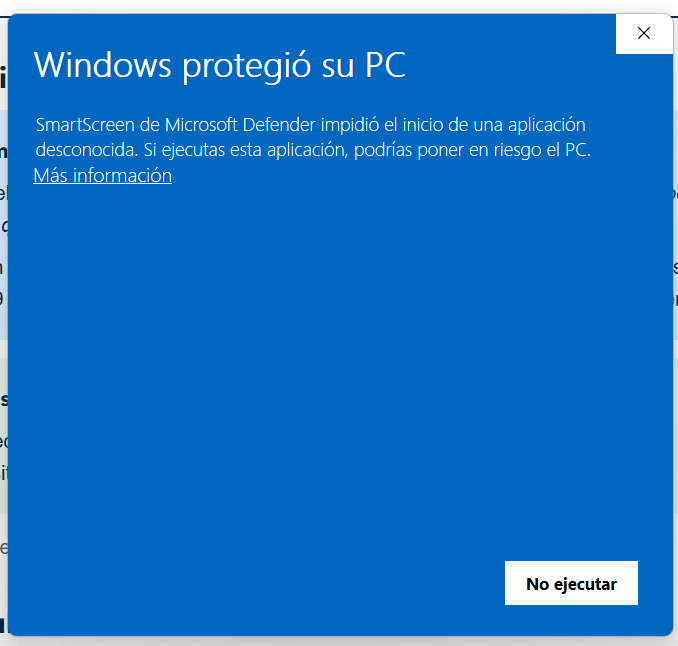
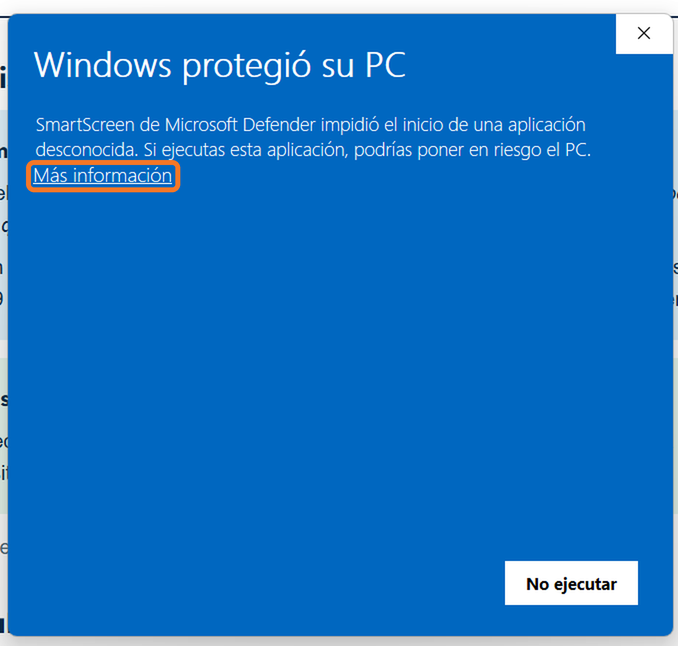
Guía: recuadros naranjas en las capturas clave de Windows y Mac
Claude-Session: https://claude.ai/code/session_018rLTBKbRgsrzdG82uyTd6S

diff --git a/guia/regalo.html b/guia/regalo.html
@@ -145,6 +145,7 @@ font-family:Arial,Helvetica,sans-serif;color:var(--navy);font-size:16px;line-hei
     <h3>Ábrela desde Aplicaciones</h3>
     <p>Doble clic en el programa. Te saldrá este aviso. <b>No pulses “Trasladar a la Papelera”</b>: pulsa <b>Aceptar</b>.</p>
     <img src="https://raw.githubusercontent.com/rafabueso/rvs-descargas/main/guia/mac-no-se-ha-abierto.png" alt="Aviso: No se ha abierto. Apple no ha podido verificar que no contenga software malicioso" width="420">
+    <p class="cap">El recuadro naranja marca dónde pulsar. En la captura pone “Pistas”; a ti te saldrá “Descargar audio”.</p>
   </div></div>
   <div class="step"><span class="n">3</span><div>
     <h3>Ve a Privacidad y seguridad</h3>
@@ -155,7 +156,7 @@ font-family:Arial,Helvetica,sans-serif;color:var(--navy);font-size:16px;line-hei
     <h3>Pulsa “Abrir igualmente”</h3>
     <p>Ahí verás que el programa se bloqueó, con el botón <b>Abrir igualmente</b>. Púlsalo. Te pedirá la contraseña del Mac o la huella, la de siempre.</p>
     <img src="https://raw.githubusercontent.com/rafabueso/rvs-descargas/main/guia/mac-abrir-igualmente.png" alt="Sección Seguridad con el botón Abrir igualmente resaltado" width="560">
-    <p class="cap">Ilustración de cómo se ve cuando el Mac ha bloqueado el programa.</p>
+    <p class="cap">El recuadro naranja marca el botón. En la captura pone “Pistas”; a ti te saldrá “Descargar audio”.</p>
   </div></div>
   <div class="step"><span class="n">5</span><div>
     <h3>Confirma con “Abrir”</h3>
@@ -183,7 +184,7 @@ font-family:Arial,Helvetica,sans-serif;color:var(--navy);font-size:16px;line-hei
     <img src="https://raw.githubusercontent.com/rafabueso/rvs-descargas/main/guia/win-edge-panel.png" alt="Panel de Descargas de Edge con el aviso: no se descarga habitualmente" width="360">
     <p class="cap">Así sale en Edge: el aviso en el panel de Descargas.</p>
     <img src="https://raw.githubusercontent.com/rafabueso/rvs-descargas/main/guia/win-edge-dialogo.png" alt="Cuadro de Edge con el botón Eliminar y su flecha desplegada con la opción Mantener de todos modos" width="360">
-    <p class="cap">Pulsa la flechita del botón negro y elige “Mantener de todos modos”.</p>
+    <p class="cap">Pulsa la flechita del botón negro (recuadro naranja) y elige “Mantener de todos modos”.</p>
     <p><b>Si prefieres evitarlo:</b> en otros navegadores, como Brave, a veces no sale este aviso.</p>
     <p><b>En Chrome:</b> pulsa la flecha de descargas de arriba y, junto al archivo, <b>Conservar</b>.</p>
   </div></div>
@@ -195,13 +196,13 @@ font-family:Arial,Helvetica,sans-serif;color:var(--navy);font-size:16px;line-hei
     <h3>Pulsa “Más información”</h3>
     <p>Saldrá una ventana azul que dice <b>“Windows protegió su PC”</b>. No pulses “No ejecutar”: pulsa el enlace pequeño <b>Más información</b>.</p>
     <img src="https://raw.githubusercontent.com/rafabueso/rvs-descargas/main/guia/win-protegio-1.png" alt="Ventana azul: Windows protegió su PC, con el enlace Más información" width="420">
-    <p class="cap">Así se ve el aviso. Pulsa el enlace pequeño “Más información”.</p>
+    <p class="cap">Así se ve el aviso. El recuadro naranja marca el enlace “Más información”, que es pequeño.</p>
   </div></div>
   <div class="step"><span class="n">4</span><div>
     <h3>Pulsa “Ejecutar de todas formas”</h3>
     <p>Aparece un botón nuevo. Púlsalo y se instala. Después lo abres desde el menú Inicio, como cualquier otro programa.</p>
     <img src="https://raw.githubusercontent.com/rafabueso/rvs-descargas/main/guia/win-protegio-2.png" alt="Ventana azul con los botones Ejecutar de todas formas y No ejecutar" width="420">
-    <p class="cap">Así se ve después de pulsar “Más información”.</p>
+    <p class="cap">El recuadro naranja marca el botón “Ejecutar de todas formas”.</p>
   </div></div>
 </div>
 
